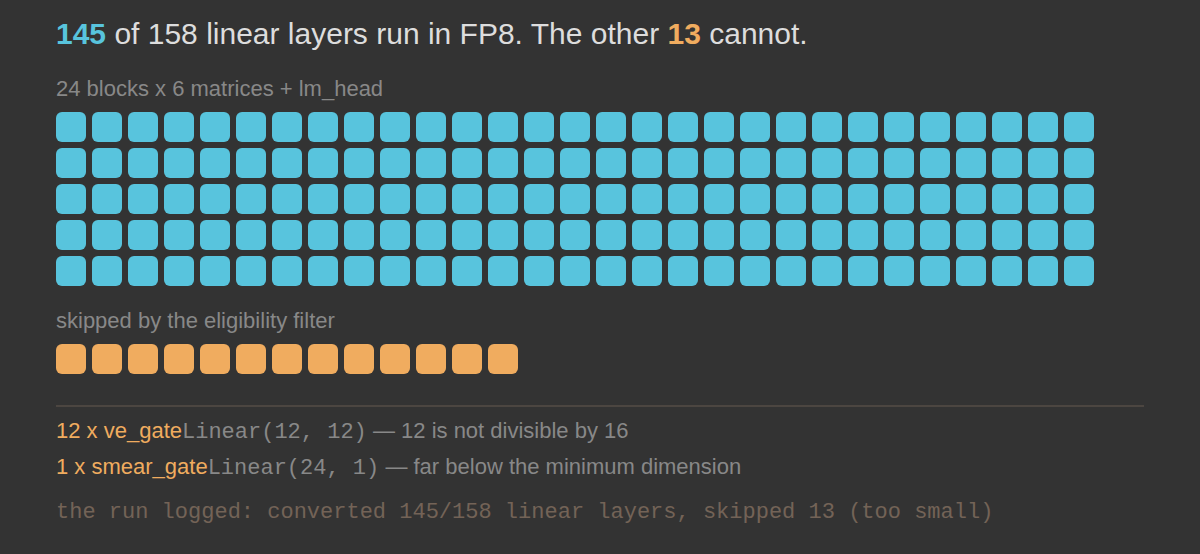
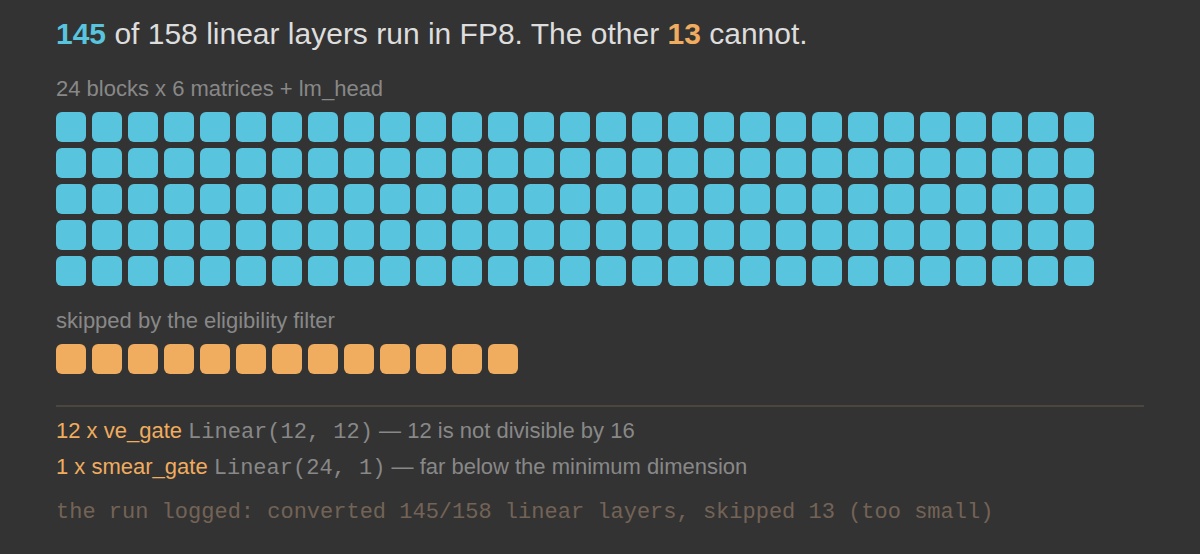
Update figure styling, scaling, and preview caption tests

Changed region(s): [[0.1542, 0.8285, 0.6167, 0.8592], [0.3392, 0.7671, 0.5242, 0.7978], [0.1542, 0.7671, 0.3083, 0.7978]]

diff --git a/assets/css/style.css b/assets/css/style.css
@@ -18,9 +18,11 @@
 
   --wide: 1200px;   /* figure / table breakout width */
   --read: 680px;    /* reading measure, matches Medium */
-  --figmax: 680px;    /* figures never exceed the reading column */
+  --figmax: 860px;   /* figure ceiling: wider than the text, inside the tables */
   --wide-table: 900px; /* opt-in breakout for sentence-heavy tables */
 }
+
+
 
 * { box-sizing: border-box; }
 
@@ -137,7 +139,7 @@ a.pill:hover { background: var(--line); color: var(--ink); }
   border-left: 3px solid var(--ink); color: var(--ink-2);
 }
 
-/* Images render at their natural size, centred in the reading column.
+/* Images render at their natural size, centred on the reading column.
 
    kramdown turns a standalone ![alt](src) into <p><img>, NOT <figure>, so
    both shapes have to be sized the same way. An earlier version sized only
@@ -145,7 +147,11 @@ a.pill:hover { background: var(--line); color: var(--ink); }
    which stretched every diagram to 1200px - scaling a 422px-wide figure by
    2.8x, magnifying its text with it, and making it taller than the viewport.
 
-   Figures are drawn to fit the measure now, so nothing needs to break out. */
+   Figures are presented slightly wider than the text measure, so they need a
+   breakout to stay centred. The critical difference from the broken version
+   is `width: auto`: max-width only permits a figure to be wider, it never
+   forces one to be. A figure narrower than the column still renders at its
+   own size. */
 .post-body figure {
   display: block;
   margin: 28px auto;
@@ -156,10 +162,10 @@ a.pill:hover { background: var(--line); color: var(--ink); }
 .post-body p > img {
   display: block;
   width: auto;
-  max-width: min(100%, var(--figmax));
+  max-width: min(var(--figmax), calc(100vw - 48px));
   height: auto;
-  margin-left: auto;
-  margin-right: auto;
+  margin-left: 50%;
+  transform: translateX(-50%);
 }
 
 /* border-radius on a replaced element clips its content, so the dark SVG
@@ -176,6 +182,11 @@ a.pill:hover { background: var(--line); color: var(--ink); }
    from the figure instead. */
 .post-body p > img {
   margin-top: 28px;
+  margin-bottom: 10px;
+}
+
+/* An image with no caption under it keeps the full bottom margin. */
+.post-body p:not(:has(+ p.caption)) > img {
   margin-bottom: 28px;
 }
 
@@ -184,6 +195,24 @@ a.pill:hover { background: var(--line); color: var(--ink); }
 .post-body p:has(> img:only-child) {
   margin: 0;
 }
+
+/* Captions are written as an italic line under the image and tagged with
+   {: .caption}. kramdown never produces <figure>/<figcaption> from image
+   syntax, so this is the only way to caption a figure without writing raw
+   HTML in the post. */
+.post-body p.caption {
+  max-width: var(--read);
+  margin: 0 auto 28px;
+  font-family: var(--sans);
+  font-size: 13px;
+  line-height: 1.5;
+  color: var(--ink-2);
+  text-align: center;
+}
+.post-body p.caption em {
+  font-style: normal;
+}
+
 .post-body figcaption {
   max-width: var(--read); margin: 10px auto 0;
   font-family: var(--sans); font-size: 13px; color: var(--ink-2); text-align: center;

diff --git a/figures/figlib.py b/figures/figlib.py
@@ -46,17 +46,21 @@ def output_to(path):
     OUT = path if os.path.isdir(path) else os.path.dirname(os.path.abspath(path))
 
 
-# Type and spacing scale, shared by every figure so they look like a set.
-# The page's body text is 20px serif on a 34px line in a 680px column, and a
-# figure should read as subordinate to it: smaller type, and a canvas that
-# fits the reading column instead of breaking out of it. Figures render at
-# 1:1, so these are literally the painted pixel sizes.
+# Drawing coordinates are authored against the 680px reading column, which
+# keeps the internal proportions honest: a 13px label really is subordinate to
+# the 20px body serif. DISPLAY_SCALE then presents the finished figure larger
+# than it was drawn, so the whole thing - type included - grows together.
 FS_TITLE = 15     # the one-line claim at the top
 FS_BODY = 13      # labels and values
 FS_META = 11      # annotations, footnotes, axis ticks
 PAD = 28          # canvas margin
 ROW = 26          # vertical rhythm for stacked rows, ~2x FS_BODY
-MAXW = 660        # keep inside the 680px reading column
+MAXW = 660        # authored width ceiling, before DISPLAY_SCALE
+
+# Presented size as a multiple of the authored size. The viewBox is unchanged,
+# so this only sets the intrinsic width/height attributes: the SVG scales
+# itself, stays sharp, and no layout inside the figure has to be re-tuned.
+DISPLAY_SCALE = 1.25
 
 
 def esc(s):
@@ -78,8 +82,10 @@ class Fig:
         self.o = [self._head(), self._bg()]
 
     def _head(self):
+        # viewBox stays in authored units; width/height present it larger.
         return (f'<svg xmlns="http://www.w3.org/2000/svg" '
-                f'width="{self.w}" height="{self.h}" '
+                f'width="{round(self.w * DISPLAY_SCALE)}" '
+                f'height="{round(self.h * DISPLAY_SCALE)}" '
                 f'viewBox="0 0 {self.w} {self.h}" '
                 f'font-family="{SANS}" role="img" aria-label="{esc(self.label)}">')
 

diff --git a/preview.py b/preview.py
@@ -353,6 +353,8 @@ def check(path):
 
     src_images = len(re.findall(r"^!\[", body, re.M))
     src_tables = len(re.findall(r"^\{:\s*\.wide\}", body, re.M))
+    src_caps = len(re.findall(r"^\s*\{:\s*\.caption\}", body, re.M))
+
     src_h2 = len(re.findall(r"^## ", body, re.M))
     src_fences = len(re.findall(r"^```", body, re.M)) // 2
     src_quotes = len(re.findall(r"^>", body, re.M))
@@ -388,6 +390,11 @@ def check(path):
         (f"tables rendered ({src_tables})", r.count("<table") == src_tables),
         (f"table .wide class applied ({src_tables})",
          r.count('<table class="wide"') == src_tables),
+        (f"caption .caption class applied ({src_caps})",
+         r.count('<p class="caption"') == src_caps),
+        ("every image followed by a caption",
+         src_caps == src_images),
+        ("no IAL text leaked into output", "{:" not in r),
         (f"h2 headings ({src_h2})", len(re.findall(r"<h2 ", r)) == src_h2),
         ("h2 headings carry ids", all(
             'id="' in m for m in re.findall(r"<h2[^>]*>", r))),
@@ -397,7 +404,8 @@ def check(path):
         ("code spans rendered", "<code>" in r),
         ("links rendered", '<a href="http' in r),
         ("bold rendered", "<strong>" in r),
-        ("no unclosed paragraphs", r.count("<p>") == r.count("</p>")),
+        ("no unclosed paragraphs",
+         len(re.findall(r"<p\b[^>]*>", r)) == r.count("</p>")),
         ("no raw markdown leaked", not re.search(r"^\s*\|", r, re.M)),
         ("entities left for the browser",
          "&mdash;" in r or "\u2014" in r),

diff --git a/figures/nanochat-speedrun-part-1/repo_map.py b/figures/nanochat-speedrun-part-1/repo_map.py
@@ -44,7 +44,7 @@ def build():
     PAD_L = PAD_R = PAD
     LEFT_W = 246
     x_mod = PAD_L + LEFT_W + 92
-    ROW_H = 31            # two lines of text per module row, so wider than ROW
+    ROW_H = 34            # two lines of text per module row, so wider than ROW
     y0 = 58
     FOOT_W = 604
     W = max(x_mod + 210 + PAD_R, FOOT_W + PAD_L + PAD_R)
@@ -69,7 +69,7 @@ def build():
         mod_y[name] = y
         f.rect(x_mod - 11, y - 11, 6, 17, BLUE, r=3)
         f.text(x_mod, y, name, FS_BODY, TEXT, mono=True)
-        f.text(x_mod, y + 13, desc, FS_META, MUTED)
+        f.text(x_mod, y + 15, desc, FS_META, MUTED)
 
     busiest = max(s for _, s, _ in STAGES if s)
     for i, (name, mins, uses) in enumerate(STAGES):

diff --git a/_posts/2026-08-10-nanochat-speedrun-part-1.md b/_posts/2026-08-10-nanochat-speedrun-part-1.md
@@ -39,6 +39,7 @@ One scope note. The reference speedrun path runs SFT and chat evaluation but not
 ![The whole project on one page](/figures/nanochat-speedrun-part-1/repo-map.svg)
 
 *The whole project on one page. Bar length is the wall-clock time each stage actually took in my run, and the lines show which library modules each stage touches. Everything after this section is a zoom into `base_train`.*
+{: .caption}
 
 ---
 
@@ -72,6 +73,7 @@ The full derivation, with the paper behind each rule, is in [Appendix B](#append
 ![One integer fixing everything below it](/figures/nanochat-speedrun-part-1/depth-cascade.svg)
 
 *One integer fixing everything below it. `d12` is the measured anchor, which is why its scaling factors are exactly `1.0`; the `d24` column is the configuration I planned to run, derived by hand from the formulas before I ran anything.*
+{: .caption}
 
 I reproduced this derivation by hand for depth 24 before running anything, which gives Part 2 its first thing to check.
 
@@ -121,6 +123,7 @@ The code is right and the comment is stale. In a repository built this carefully
 ![Bar width is the attention window, so the ratio is the whole story](/figures/nanochat-speedrun-part-1/sssl-window.svg)
 
 *Bar width is the attention window, so the ratio is the whole story. Eighteen of twenty-four layers never see more than 512 tokens; the six gold bars carry every long-range interaction in the model.*
+{: .caption}
 
 ---
 
@@ -183,6 +186,7 @@ So I counted the modules by hand. A depth-24 model has 24 blocks, each with 6 li
 ![Every linear layer in the model, drawn at the same size so the proportion is honest](/figures/nanochat-speedrun-part-1/precision-map.svg)
 
 *Every linear layer in the model, drawn at the same size so the proportion is honest. The thirteen the filter refuses are not an oversight: twelve `ve_gate` projections that fail the divisible-by-16 rule, and one `smear_gate` far below any workable dimension.*
+{: .caption}
 
 > **What I expect to see** &mdash; The run should report converting exactly `145` of `158` linear layers and skipping `13`. If the numbers differ, my reading of the filter is wrong.
 
@@ -207,6 +211,7 @@ Three goals, all visible in the structure: overlap communication with computatio
 ![One step, four ranks, one time axis](/figures/nanochat-speedrun-part-1/optimizer-step.svg)
 
 *One step, four ranks, one time axis. The dashed line marks where an ordinary DDP-wrapped model would already have been all-reducing; here the gradients are still rank-local, and communication happens afterwards as an explicit async phase.*
+{: .caption}
 
 > **Not tested here** &mdash; I can read the design, but I have no profiler trace. I will not claim communication was actually hidden behind computation, only that the code is structured so it could be.
 
@@ -229,6 +234,7 @@ The result is 100% utilization. No padding, ever. Every token in every batch is 
 ![Successive states of a single row](/figures/nanochat-speedrun-part-1/bestfit-packing.svg)
 
 *Successive states of a single row. Two documents are placed whole, then nothing in the buffer fits the remaining 270 tokens, so the shortest buffered document is cropped to fill it exactly. The red block is what that costs.*
+{: .caption}
 
 #### Why a third of the tokens get thrown away
 
